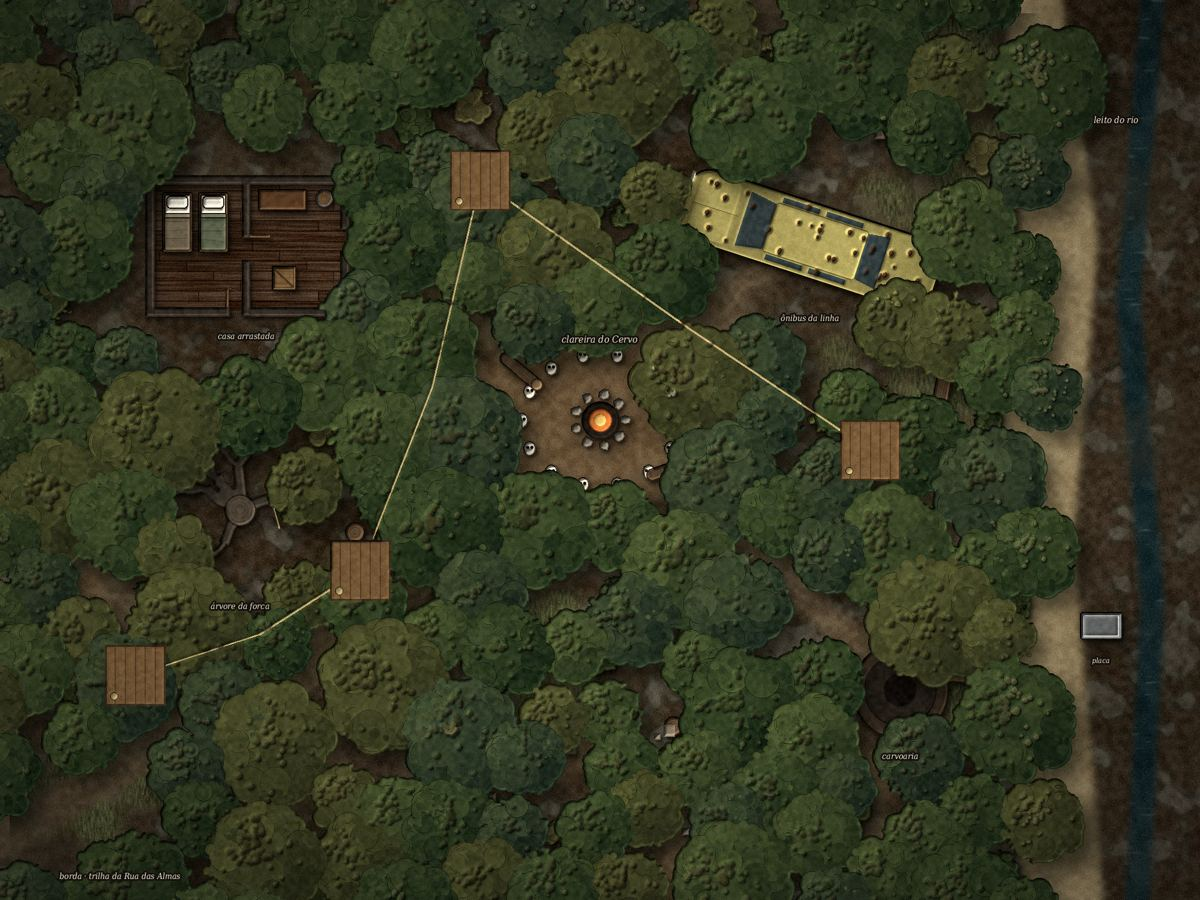
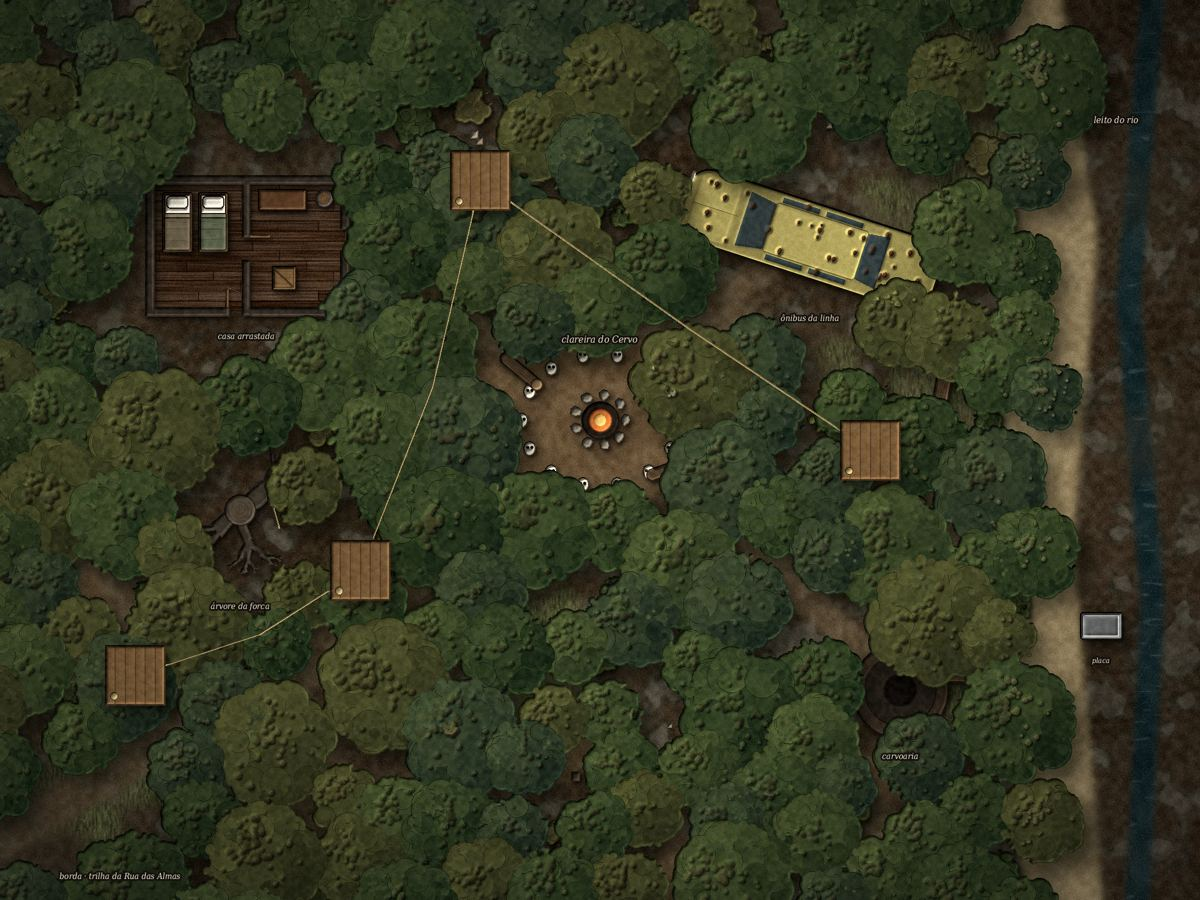
Battlemaps: copas da Mata em camada própria, cheias ou transparentes
A Mata vira chão + copa. A copa fica acima dos personagens e o mestre
alterna entre cheia e transparente na aba Mapa; plataformas e cordas
ficam no mapa e sempre opacas. VERSAO 3, manifesto 1.4.0.

Claude-Session: https://claude.ai/code/session_01TH2mT14gnbzCLSxVvUunv2

diff --git a/battlemaps/app.js b/battlemaps/app.js
@@ -7,7 +7,7 @@
    ========================================================= */
 import OBR from "https://cdn.jsdelivr.net/npm/@owlbear-rodeo/sdk@3.1.0/+esm";
 import { LOCAIS } from "./dados.js";
-import { META, BASE, lerEstado, salvarEstado, pontosDe, locPorId, colocarMapa, vincularImagem, desvincular } from "./sync.js";
+import { META, BASE, modoCopa, lerEstado, salvarEstado, pontosDe, locPorId, colocarMapa, vincularImagem, desvincular } from "./sync.js";
 
 const TAGS = { pista: ["Pista", "var(--pista)"], "mistério": ["Mistério", "var(--misterio)"], item: ["Item", "var(--item)"], perigo: ["Perigo", "var(--perigo)"], "": ["Detalhe", "var(--nada)"] };
 const TIPO = { base: "Bases das equipes", enigma: "Enigma", explorar: "Exploração" };
@@ -73,6 +73,7 @@ function montar() {
     <section class="cena" id="cena" aria-label="Cena"></section>
     <nav class="abas" role="tablist" id="abas"></nav>
     <section class="painel" id="p-mapa" role="tabpanel">
+      <div class="copa" id="copa" hidden></div>
       <div class="barra"><div class="filtros" id="filtros"></div><div class="progresso" id="prog"></div></div>
       <div class="vp-casca">
         <div class="vp" id="vp"><div class="mapa" id="mapa"><img id="img" alt="" draggable="false"></div></div>
@@ -261,7 +262,9 @@ function renderFiltros() {
 }
 function renderMapa() {
   const l = L(), m = $("mapa"), img = $("img");
-  if (img.dataset.id !== cur) { img.src = `${BASE}previas/${cur}.jpg`; img.dataset.id = cur; img.alt = "Mapa de " + l.nome; }
+  const mc = modoCopa(E, cur), chaveImg = cur + (mc && mc !== l.copa.modos[0].k ? "_" + mc : "");
+  if (img.dataset.id !== chaveImg) { img.src = `${BASE}previas/${chaveImg}.jpg`; img.dataset.id = chaveImg; img.alt = "Mapa de " + l.nome; }
+  renderCopa();
   m.style.width = (zoom * 100) + "%";
   $("z-val").textContent = Math.round(zoom * 100) + "%";
   $("z-menos").disabled = zoom <= 1; $("z-mais").disabled = zoom >= 4; $("z-fit").disabled = zoom <= 1;
@@ -294,6 +297,20 @@ function renderMapa() {
     if ($("b-cancela")) $("b-cancela").onclick = () => { adding = false; renderMapa(); };
   } else fx.hidden = true;
   renderFiltros();
+}
+function renderCopa() {
+  const l = L(), box = $("copa");
+  if (!l.copa) { box.hidden = true; box.innerHTML = ""; return; }
+  const mc = modoCopa(E, cur);
+  box.hidden = false;
+  box.innerHTML = `<span class="copa-rot">${esc(l.copa.nome)}</span><div class="seg" role="group" aria-label="${esc(l.copa.nome)}">${l.copa.modos.map((m) =>
+    `<button type="button" data-k="${m.k}" aria-pressed="${m.k === mc}">${esc(m.nome)}</button>`).join("")}</div>
+    <span class="dica">Plataformas e cordas ficam sempre visíveis.</span>`;
+  box.querySelectorAll("button").forEach((b) => b.onclick = () => {
+    if (b.dataset.k === modoCopa(E, cur)) return;
+    E.copa = E.copa || {}; E.copa[cur] = b.dataset.k; salvar(); renderMapa();
+    toast(b.dataset.k === "transparente" ? "Copas transparentes na mesa" : "Copas cheias na mesa");
+  });
 }
 function arrastavel(b, i) {
   b.onpointerdown = (ev) => {

diff --git a/battlemaps/sync.js b/battlemaps/sync.js
@@ -14,7 +14,7 @@ const PING = NS + "/ping";
 export const locPorId = (id) => LOCAIS.find((l) => l.id === id);
 const chave = (sala) => `${NS}/estado/${sala}`;
 
-export function estadoVazio() { return { melhorias: {}, feitos: {}, pontos: false, edits: {}, fmt: 2 }; }
+export function estadoVazio() { return { melhorias: {}, feitos: {}, pontos: false, edits: {}, copa: {}, fmt: 2 }; }
 export function lerEstado(sala) {
   try { return migrar(Object.assign(estadoVazio(), { fmt: 1 }, JSON.parse(localStorage.getItem(chave(sala)) || "{}"))); } catch { return estadoVazio(); }
 }
@@ -43,6 +43,9 @@ export function pontosDe(e, id) { return e.edits?.[id] || locPorId(id).pois; }
 
 export const urlMapa = (id) => `${BASE}imagens/${id}.png?v=${VERSAO}`;
 export const urlCamada = (k) => `${BASE}imagens/hotel/${k}.png?v=${VERSAO}`;
+/* copa das árvores (Mata): camada acima dos personagens; plataformas e cordas ficam no mapa, sempre opacas */
+export const modoCopa = (e, id) => { const c = locPorId(id)?.copa; if (!c) return null; const k = e.copa?.[id]; return c.modos.some((m) => m.k === k) ? k : c.modos[0].k; };
+export const urlCopa = (id, k) => { const c = locPorId(id).copa; return `${BASE}imagens/${id}/${c.modos.find((m) => m.k === k).arq}.png?v=${VERSAO}`; };
 
 /* põe um mapa novo na cena */
 export async function colocarMapa(id, pos = { x: 0, y: 0 }) {
@@ -119,6 +122,18 @@ async function passo(sala) {
         .zIndex((m.zIndex || 0) + 1 + n).attachedTo(m.id).name(`Melhoria · ${c.nome}`)
         .metadata({ [META]: { tipo: "camada", pai: m.id, k: c.k, v: VERSAO } }).build());
     });
+
+    // copa das árvores: fica na camada ATTACHMENT, acima dos tokens, e não pega cliques
+    const temCopa = filhos.filter((i) => i.metadata[META].tipo === "copa");
+    const querCopa = modoCopa(e, id);
+    for (const c of temCopa) if (c.metadata[META].modo !== querCopa || c.metadata[META].v !== VERSAO) del.push(c.id);
+    if (querCopa && !temCopa.some((c) => c.metadata[META].modo === querCopa && c.metadata[META].v === VERSAO)) {
+      const [x0, y0, x1, y1] = l.copa.off;
+      add.push(buildImage({ width: x1 - x0, height: y1 - y0, url: urlCopa(id, querCopa), mime: "image/png" }, { dpi: DPI_IMG, offset: { x: 0, y: 0 } })
+        .layer("ATTACHMENT").locked(true).disableHit(true).position(ponto(x0, y0)).scale(m.scale || { x: 1, y: 1 })
+        .attachedTo(m.id).name(`${l.copa.nome} · ${l.copa.modos.find((x) => x.k === querCopa).nome}`)
+        .metadata({ [META]: { tipo: "copa", pai: m.id, modo: querCopa, v: VERSAO } }).build());
+    }
 
     // pontos de interesse (só o mestre vê: itens ocultos)
     const temPt = filhos.filter((i) => i.metadata[META].tipo === "ponto");

diff --git a/battlemaps/style.css b/battlemaps/style.css
@@ -87,6 +87,12 @@ button:disabled{opacity:.4;cursor:default}
 @keyframes entra{from{opacity:0;transform:translateY(3px)}}
 
 /* ---------- mapa ---------- */
+.copa{display:flex;align-items:center;gap:8px;flex-wrap:wrap;font-size:.8rem}
+.copa-rot{font-weight:600}
+.copa .dica{color:var(--muted);font-size:.74rem}
+.seg{display:inline-flex;border:1px solid var(--line);border-radius:99px;padding:2px;gap:2px}
+.seg button{border:0;border-radius:99px;padding:3px 11px;font-size:.78rem;background:transparent;color:var(--muted)}
+.seg button[aria-pressed="true"]{background:var(--accent);color:#fff}
 .barra{display:flex;align-items:center;justify-content:space-between;gap:8px;flex-wrap:wrap}
 .filtros{display:flex;gap:4px;flex-wrap:wrap}
 .filtro{font-size:.76rem;padding:3px 9px 3px 7px;border-radius:99px;gap:5px;background:transparent}

diff --git a/battlemaps/index.html b/battlemaps/index.html
@@ -7,12 +7,12 @@
   <link rel="preconnect" href="https://fonts.googleapis.com">
   <link rel="preconnect" href="https://fonts.gstatic.com" crossorigin>
   <link rel="stylesheet" href="https://fonts.googleapis.com/css2?family=Alegreya+SC:wght@700&display=swap">
-  <link rel="stylesheet" href="style.css?v=1.1.0">
+  <link rel="stylesheet" href="style.css?v=1.4.0">
 </head>
 <body>
   <main class="app" id="app">
     <p class="vazio carregando">Carregando…</p>
   </main>
-  <script type="module" src="app.js?v=1.1.0"></script>
+  <script type="module" src="app.js?v=1.4.0"></script>
 </body>
 </html>

diff --git a/battlemaps/dados.js b/battlemaps/dados.js
@@ -1,5 +1,5 @@
 /* Gerado a partir dos battlemaps (versão 2 dos locais; mapas redesenhados em 08/11/2026). */
-export const VERSAO = 2;
+export const VERSAO = 3;
 export const LOCAIS = [
 {
 "id": "hotel",
@@ -1247,7 +1247,28 @@ export const LOCAIS = [
 "img": [
 2000,
 1500
+],
+"copa": {
+"nome": "Copas das árvores",
+"modos": [
+{
+"k": "cheia",
+"nome": "Cheias",
+"arq": "copa"
+},
+{
+"k": "transparente",
+"nome": "Transparentes",
+"arq": "copa_transparente"
+}
+],
+"off": [
+0,
+0,
+2000,
+1500
 ]
+}
 },
 {
 "id": "matadouro",

diff --git a/battlemaps/LEIA-ME.md b/battlemaps/LEIA-ME.md
@@ -37,3 +37,9 @@ Quem atualiza a cena é o fundo da extensão (`background.js`), então a mesa mu
 - **Hotel**: a base e as 12 camadas de melhoria foram geradas no estilo novo, em tamanho cheio (50 px por quadrado). Base + todas as camadas fica igual ao mapa desenhado com tudo pronto.
 - Os pontos de interesse foram mantidos; no Cemitério e na Ponte só mudaram de lugar para acompanhar o desenho novo.
 - `VERSAO` subiu para 2: cenas que já têm os mapas trocam a imagem sozinhas (pontos editados por você continuam com a posição antiga).
+
+## Versão 1.4.0 — copas da Mata
+- A Mata dos Afogados agora é o chão (com plataformas e cordas) + uma camada de copas por cima dos personagens (camada ATTACHMENT, travada, sem pegar cliques).
+- Na aba **Mapa**, com a Mata escolhida: **Copas das árvores · Cheias / Transparentes**. Cheias escondem quem está debaixo das árvores; transparentes (40%) deixam ver os tokens.
+- As plataformas de madeira e as cordas não fazem parte da copa: ficam sempre opacas, e quem sobe nelas aparece por cima.
+- Arquivos: `imagens/mata.png` (chão), `imagens/mata/copa.png` e `imagens/mata/copa_transparente.png`.
